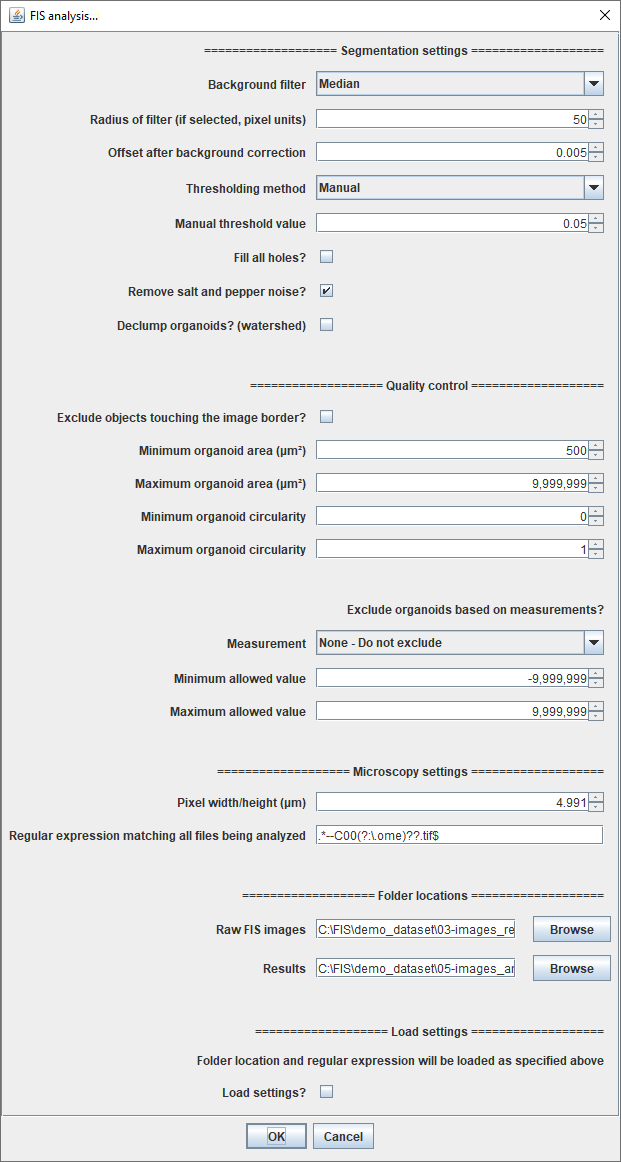
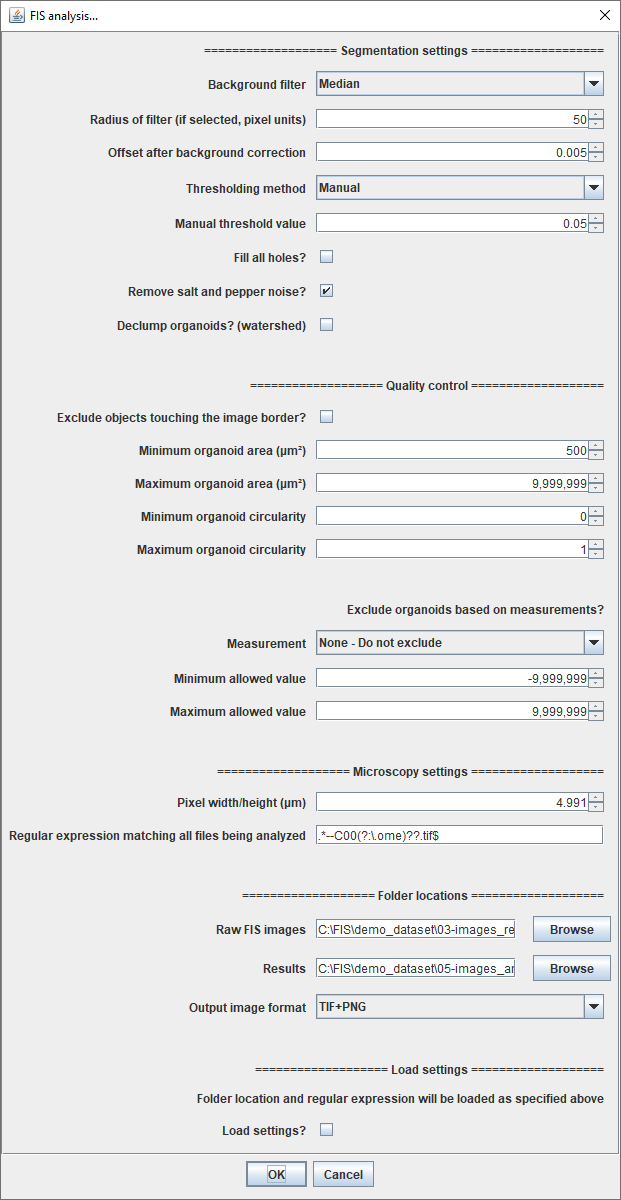
Fiji: TIF,PNG,TIF+PNG outputs and standardize file names with CellProfiler

Changed region(s): [[0.0, 0.0, 1.0, 0.9914], [0.0, 0.0, 0.153, 0.031]]

diff --git a/readme.md b/readme.md
@@ -5,7 +5,7 @@
 
 ## Overview
 
-We provide pipelines for measuring organoid cross-sectional area [[1](#ref01)] in the forskolin-induced swelling (FIS) live cell microscopy assay [[2](#ref02)]. The pipelines take as input raw microscopy images and generate plain text files containing object-level features (*e.g.* organoid cross-sectional area) as well as labelled object masks.
+We provide pipelines for measuring organoid cross-sectional area [[1](#ref01)] in the forskolin-induced swelling (FIS) live cell microscopy assay [[2](#ref02)]. The pipelines take as input raw microscopy images and generate plain text files containing object-level features (*e.g.* organoid cross-sectional area) as well as labeled segmentation masks.
 
 ![workflow](./img/schemes/workflow.gif)
 
@@ -145,7 +145,7 @@ The images in the demonstration dataset were renamed with the R package [**htmre
 The demonstration dataset is comprised of:
 1. [**Raw microscopy images**](./demo_dataset/03-images_renamed/demoplate_01) (91.9 MB)
 2. [**Image quantification outputs (CellProfiler)**](./demo_dataset/05-images_analysis/demoplate_01--cellprofiler) (14.8 MB)
-3. [**Image quantification outputs (Fiji)**](./demo_dataset/05-images_analysis/demoplate_01--ij) (239 MB)
+3. [**Image quantification outputs (Fiji)**](./demo_dataset/05-images_analysis/demoplate_01--ij) (241 MB)
 
 The image analysis pipelines implemented in [**CellProfiler**](./CellProfiler) and [**Fiji/ImageJ**](./Fiji_ImageJ) have been pre-configured with optimal parameter values for the demonstration dataset.
 
@@ -165,7 +165,7 @@ The image analysis pipelines perform the following consecutive actions for every
 3. Quality control: rejection of aberrant organoids (optional)
 4. Organoid tracking
 5. Measurement of organoid area
-6. Export of measurements (CSV) and segmentation masks (TIF)
+6. Export of measurements (CSV) and segmentation masks (TIF, PNG or both)
 
 Analysis of the demonstration dataset will produce equivalent results regardless of using CellProfiler or Fiji.
 
@@ -761,13 +761,15 @@ The Fiji workflow comprises two scripts:
     </details>
 
 
-4. Enter the parameters selected in the test mode. For batch analysis, 3 additional parameters are required:
+4. Enter the parameters selected in the test mode. For batch analysis, 4 additional parameters are required:
 
     * **Regular expression matching all files being analyzed**: the default expression `.*--C00(?:.ome)??.tif$` will match the images generated by the `htmrenamer` tool. If needed, replace `C00` with the channel name for the fluorescence image.  
     
     * **Folder location > Raw FIS images**:  The folder containing renamed fluorescence images. [See example here](./demo_dataset/03-images_renamed/demoplate_01).  
     
     * **Folder location > Results**: The folder where analysis results will be saved.   
+	
+	* **Output image format**: The image format for segmentation count mask (TIF, PNG or both).  
     
     Checking `Load settings?` enables loading the settings file which can be saved during the test mode ([see above](#test-ij-savesettings)).  
 	
@@ -796,6 +798,7 @@ The Fiji workflow comprises two scripts:
     | _Maximum allowed value_                      | _Irrelevant_           |
     | _Pixel width/height_                         | 4.991 μm               |
     | _Regular expression_                         | .*--C00(?:.ome)??.tif$ |
+	| _Output file format_                         | TIF+PNG                |
 
 
 5. Click `OK` to start the analysis.
@@ -815,7 +818,7 @@ The Fiji workflow comprises two scripts:
 
     </details>
 
-    The output files are segmentation masks (TIF, one per time frame) and CSV files (one per well) that contain quantitative features (_e.g._ organoid area) and metadata. 
+    The output files are segmentation masks (TIF/PNG/TIF+PNG, one per time frame) and CSV files (one per well) that contain quantitative features (_e.g._ organoid area) and metadata. 
            
     Each line of the CSV file corresponds to one object
 
